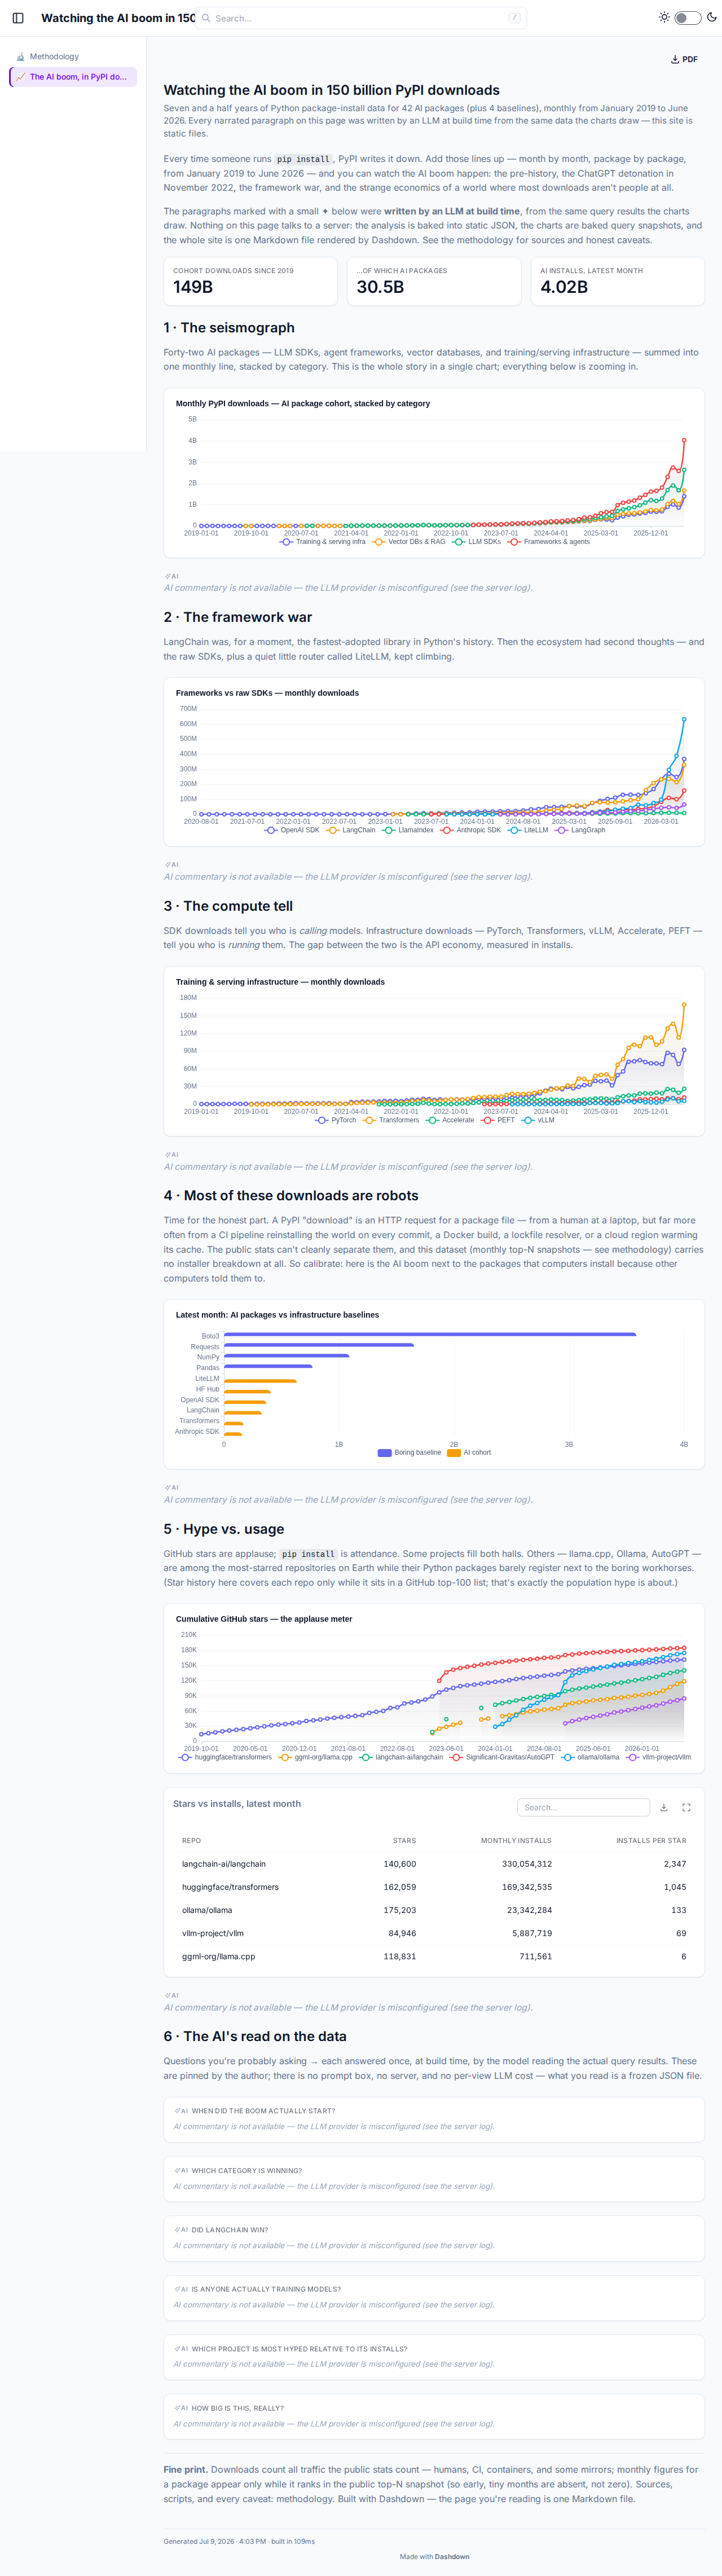
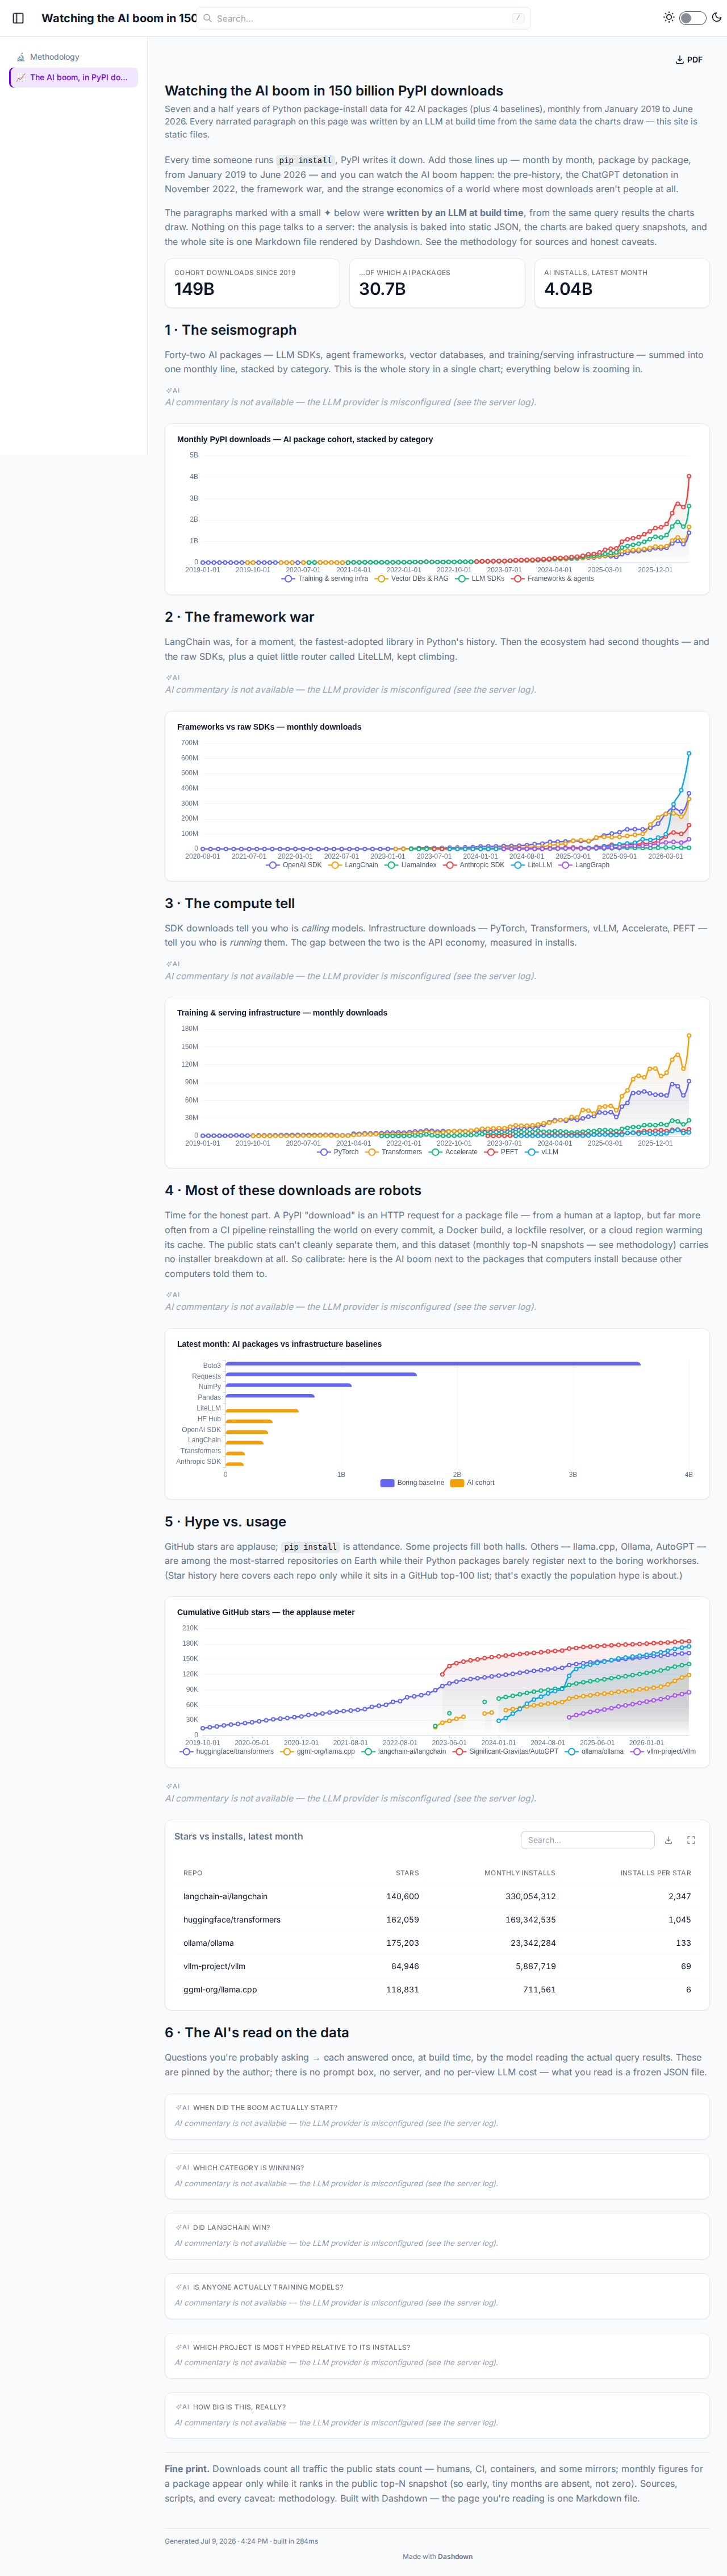
Lead each section with the AI narration instead of trailing it
The <Ask inline> commentary now opens each section — the ✦ narration
reads as the section's body prose with the chart supporting it, rather
than appearing after the chart at the section's end. Prompts reworded
("this chart" → "this data") to fit the new position.

Claude-Session: https://claude.ai/code/session_01AvLCkqBx2CVRgnDcN6YxGF

diff --git a/pages/index.md b/pages/index.md
@@ -70,10 +70,6 @@ GROUP BY 1, 2
 ORDER BY 1, 2
 ```
 
-<LineChart data={seismograph} x="month" y="downloads" series="segment" stacked
-           title="Monthly PyPI downloads — AI package cohort, stacked by category"
-           explain="Where is the inflection point in this time series, and how does the growth rate before it compare to after it? ChatGPT launched on 2022-11-30 — is that visible in the data?" />
-
 <Ask data={seismograph} inline>
 Narrate the overall shape of this time series in one short paragraph for a
 technical reader: the near-flat years before late 2022, what happens after
@@ -81,6 +77,10 @@ ChatGPT's launch (November 30, 2022), and roughly how many times larger the
 monthly download volume is at the end of the series than in October 2022. Use
 concrete numbers from the data. Do not use bullet points.
 </Ask>
+
+<LineChart data={seismograph} x="month" y="downloads" series="segment" stacked
+           title="Monthly PyPI downloads — AI package cohort, stacked by category"
+           explain="Where is the inflection point in this time series, and how does the growth rate before it compare to after it? ChatGPT launched on 2022-11-30 — is that visible in the data?" />
 
 ## 2 · The framework war
 
@@ -96,11 +96,8 @@ WHERE p.package IN ('langchain', 'langgraph', 'llama-index', 'openai', 'anthropi
 ORDER BY p.month, package
 ```
 
-<LineChart data={framework_war} x="month" y="downloads" series="package"
-           title="Frameworks vs raw SDKs — monthly downloads" />
-
 <Ask data={framework_war} inline>
-This chart compares LLM orchestration frameworks (LangChain, LangGraph,
+This data compares LLM orchestration frameworks (LangChain, LangGraph,
 LlamaIndex) against raw provider SDKs (OpenAI, Anthropic) and the LiteLLM
 router, monthly since 2019. Write two short paragraphs for a Hacker News
 audience: first, the LangChain story — its explosive 2023 rise, and how its
@@ -110,6 +107,9 @@ most monthly downloads, and what its lead over the famous names suggests about
 how production LLM apps are actually built. Cite concrete numbers. No bullet
 points, no headings.
 </Ask>
+
+<LineChart data={framework_war} x="month" y="downloads" series="package"
+           title="Frameworks vs raw SDKs — monthly downloads" />
 
 ## 3 · The compute tell
 
@@ -125,10 +125,6 @@ WHERE p.package IN ('torch', 'transformers', 'vllm', 'accelerate', 'peft')
 ORDER BY p.month, package
 ```
 
-<LineChart data={compute_tell} x="month" y="downloads" series="package"
-           title="Training & serving infrastructure — monthly downloads"
-           explain="Compare the trajectories of the training/fine-tuning stack (accelerate, peft) with the serving stack (vllm) and the base libraries (torch, transformers). What does the relative growth since 2023 suggest about what the ecosystem is doing with models?" />
-
 <Ask data={compute_tell,framework_war} inline>
 Comparing these two datasets — GPU-era infrastructure packages (torch,
 transformers, vllm, accelerate, peft) versus API-calling packages (openai,
@@ -138,6 +134,10 @@ happen for every install of serving infrastructure by the end of the series,
 and whether the data supports the claim that most of the boom is people calling
 someone else's GPUs rather than running their own. Use concrete numbers.
 </Ask>
+
+<LineChart data={compute_tell} x="month" y="downloads" series="package"
+           title="Training & serving infrastructure — monthly downloads"
+           explain="Compare the trajectories of the training/fine-tuning stack (accelerate, peft) with the serving stack (vllm) and the base libraries (torch, transformers). What does the relative growth since 2023 suggest about what the ecosystem is doing with models?" />
 
 ## 4 · Most of these downloads are robots
 
@@ -161,20 +161,20 @@ WHERE p.month = (SELECT MAX(month) FROM pypi_downloads)
 ORDER BY p.downloads DESC
 ```
 
-<BarChart data={scale_check} x="package" y="downloads" series="kind" horizontal
-          title="Latest month: AI packages vs infrastructure baselines"
-          explain="boto3 is the AWS SDK — nobody hand-installs it 3.5 billion times a month; that volume is CI, Docker builds, and machines. Given that calibration, what do the AI packages' positions on this chart imply about how much of their volume is automated too?" />
-
 <Ask data={scale_check} inline>
 Write one short, slightly wry paragraph. boto3's ~3.5 billion monthly downloads
 are overwhelmingly machines — CI pipelines, Docker builds, autoscaling fleets —
 not humans typing pip install. Use that as the calibration to interpret the AI
-packages on this chart: what does it mean that litellm and openai now sit in
+packages in this data: what does it mean that litellm and openai now sit in
 the same order of magnitude as requests and numpy? Make the point that
 download counts measure how often software is *run by machines*, which is
 arguably the more honest measure of production adoption — while conceding we
 cannot know how many humans are behind them. Concrete numbers, no bullets.
 </Ask>
+
+<BarChart data={scale_check} x="package" y="downloads" series="kind" horizontal
+          title="Latest month: AI packages vs infrastructure baselines"
+          explain="boto3 is the AWS SDK — nobody hand-installs it 3.5 billion times a month; that volume is CI, Docker builds, and machines. Given that calibration, what do the AI packages' positions on this chart imply about how much of their volume is automated too?" />
 
 ## 5 · Hype vs. usage
 
@@ -218,11 +218,8 @@ WHERE g.rn = 1
 ORDER BY installs_per_star DESC
 ```
 
-<Table data={hype_gap} title="Stars vs installs, latest month"
-       format="stars=number, monthly_installs=number, installs_per_star=number" decimals=0 />
-
 <Ask data={hype_gap,stars} inline>
-This table pairs each repo's GitHub stars with its Python package's monthly
+This data pairs each repo's GitHub stars with its Python package's monthly
 PyPI downloads (latest month), plus installs-per-star. Write one short
 paragraph on the gap: llama.cpp and Ollama are two of the most-starred projects
 in the world, yet their Python bindings are dwarfed by langchain and
@@ -231,6 +228,9 @@ llama.cpp as apps or binaries, not via pip, so PyPI under-counts them; and
 stars measure enthusiasm while installs measure automation. Note which project
 has the most extreme stars-to-installs imbalance, with numbers.
 </Ask>
+
+<Table data={hype_gap} title="Stars vs installs, latest month"
+       format="stars=number, monthly_installs=number, installs_per_star=number" decimals=0 />
 
 ## 6 · The AI's read on the data
 